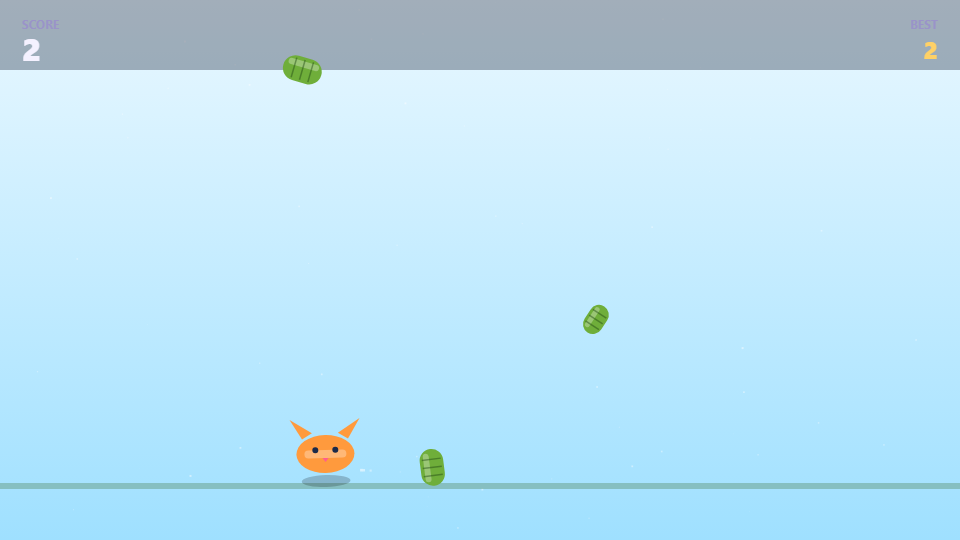
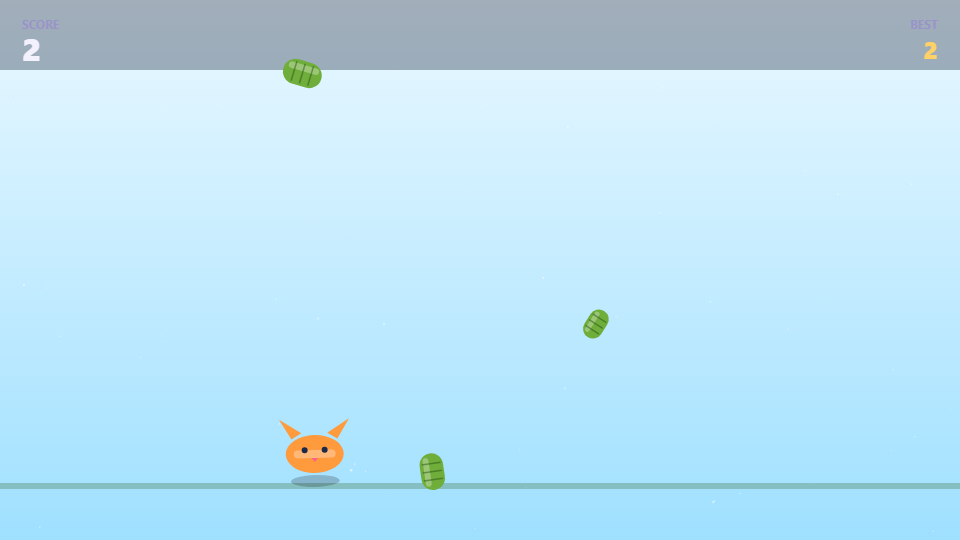
publish cat-vs-cucumbers v1

diff --git a/index.html b/index.html
@@ -54,7 +54,7 @@
   <div class="body">
     <h2><a href="games/cat-vs-cucumbers/v1/">Cat vs Cucumbers</a></h2>
     <p class="pitch">A jumpy cat dodges falling cucumbers that keep getting faster.</p>
-    <p class="credits">Made by <b>billusanda5808</b> + Jam Room agents</p>
+    <p class="credits">Made by <b>Jatiiin.vats</b> + Jam Room agents</p>
     <div class="row"><a class="play" href="games/cat-vs-cucumbers/v1/">&#9654; Play v1</a></div>
   </div>
 </article>

diff --git a/games/cat-vs-cucumbers/GAME_SPEC.md b/games/cat-vs-cucumbers/GAME_SPEC.md
@@ -2,7 +2,7 @@
 title: Cat vs Cucumbers
 slug: cat-vs-cucumbers
 pitch: A jumpy cat dodges falling cucumbers that keep getting faster.
-credits: [billusanda5808]
+credits: [Jatiiin.vats]
 created: 2026-11-05
 ---
 ## Controls
